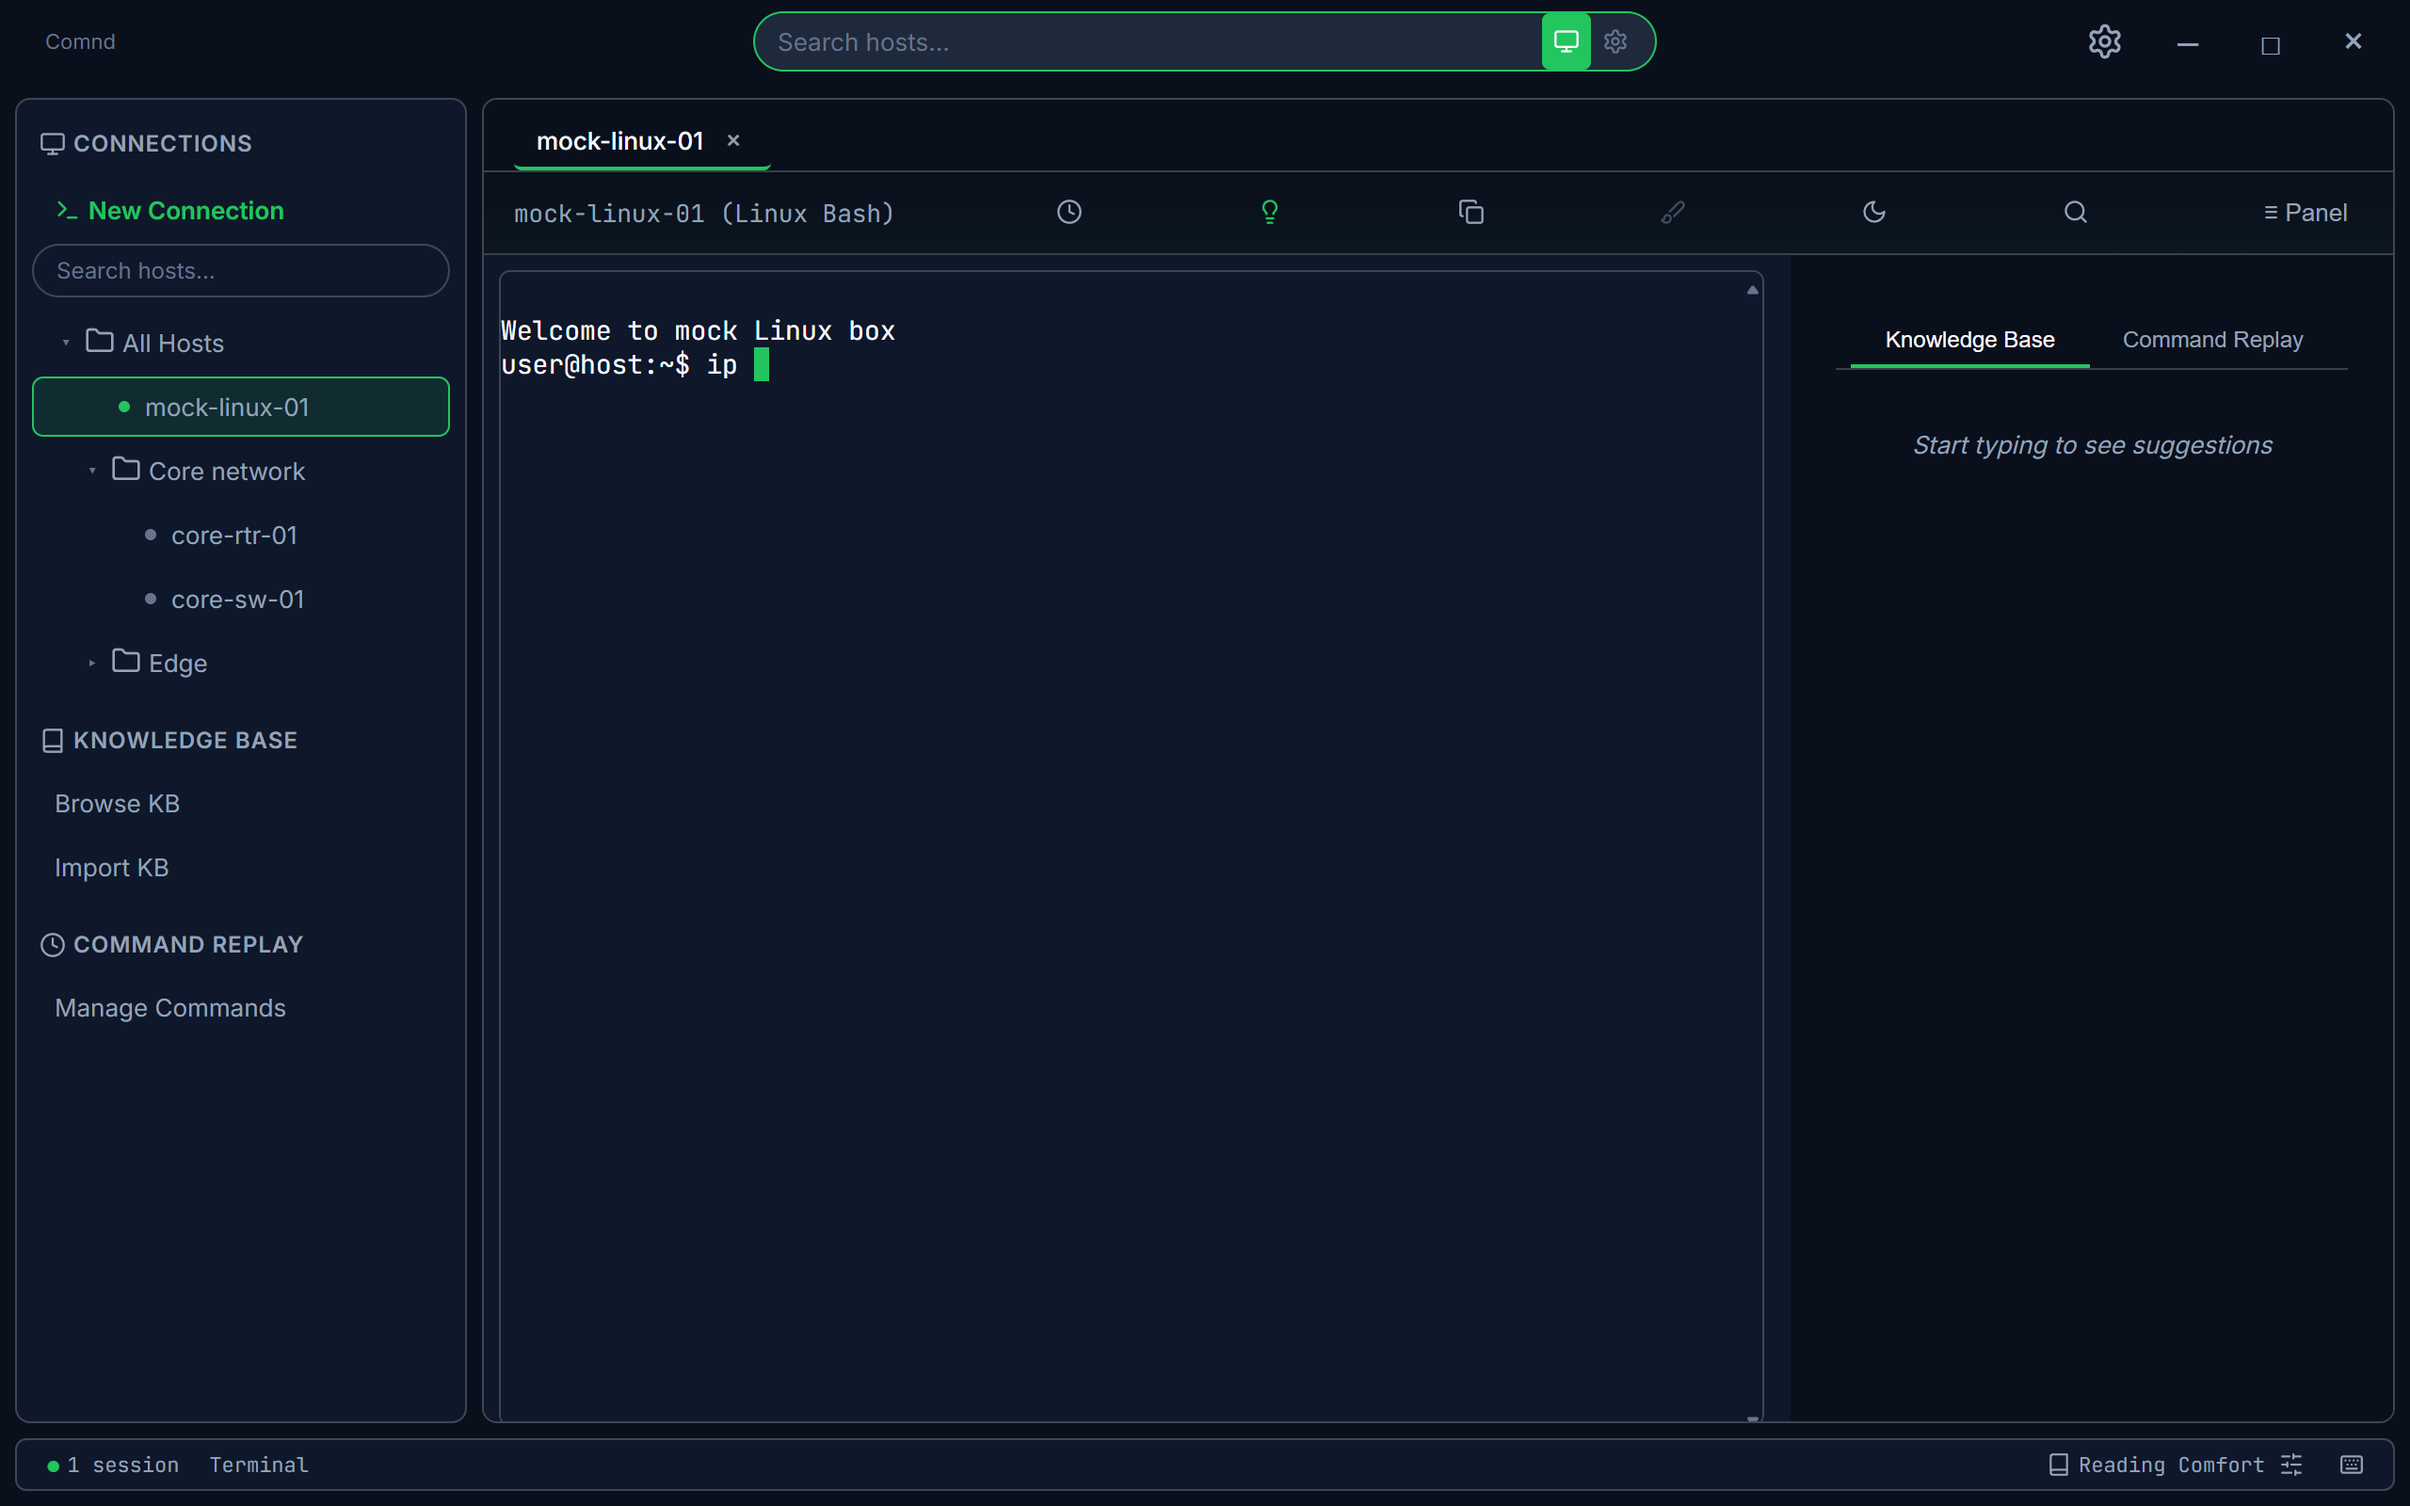
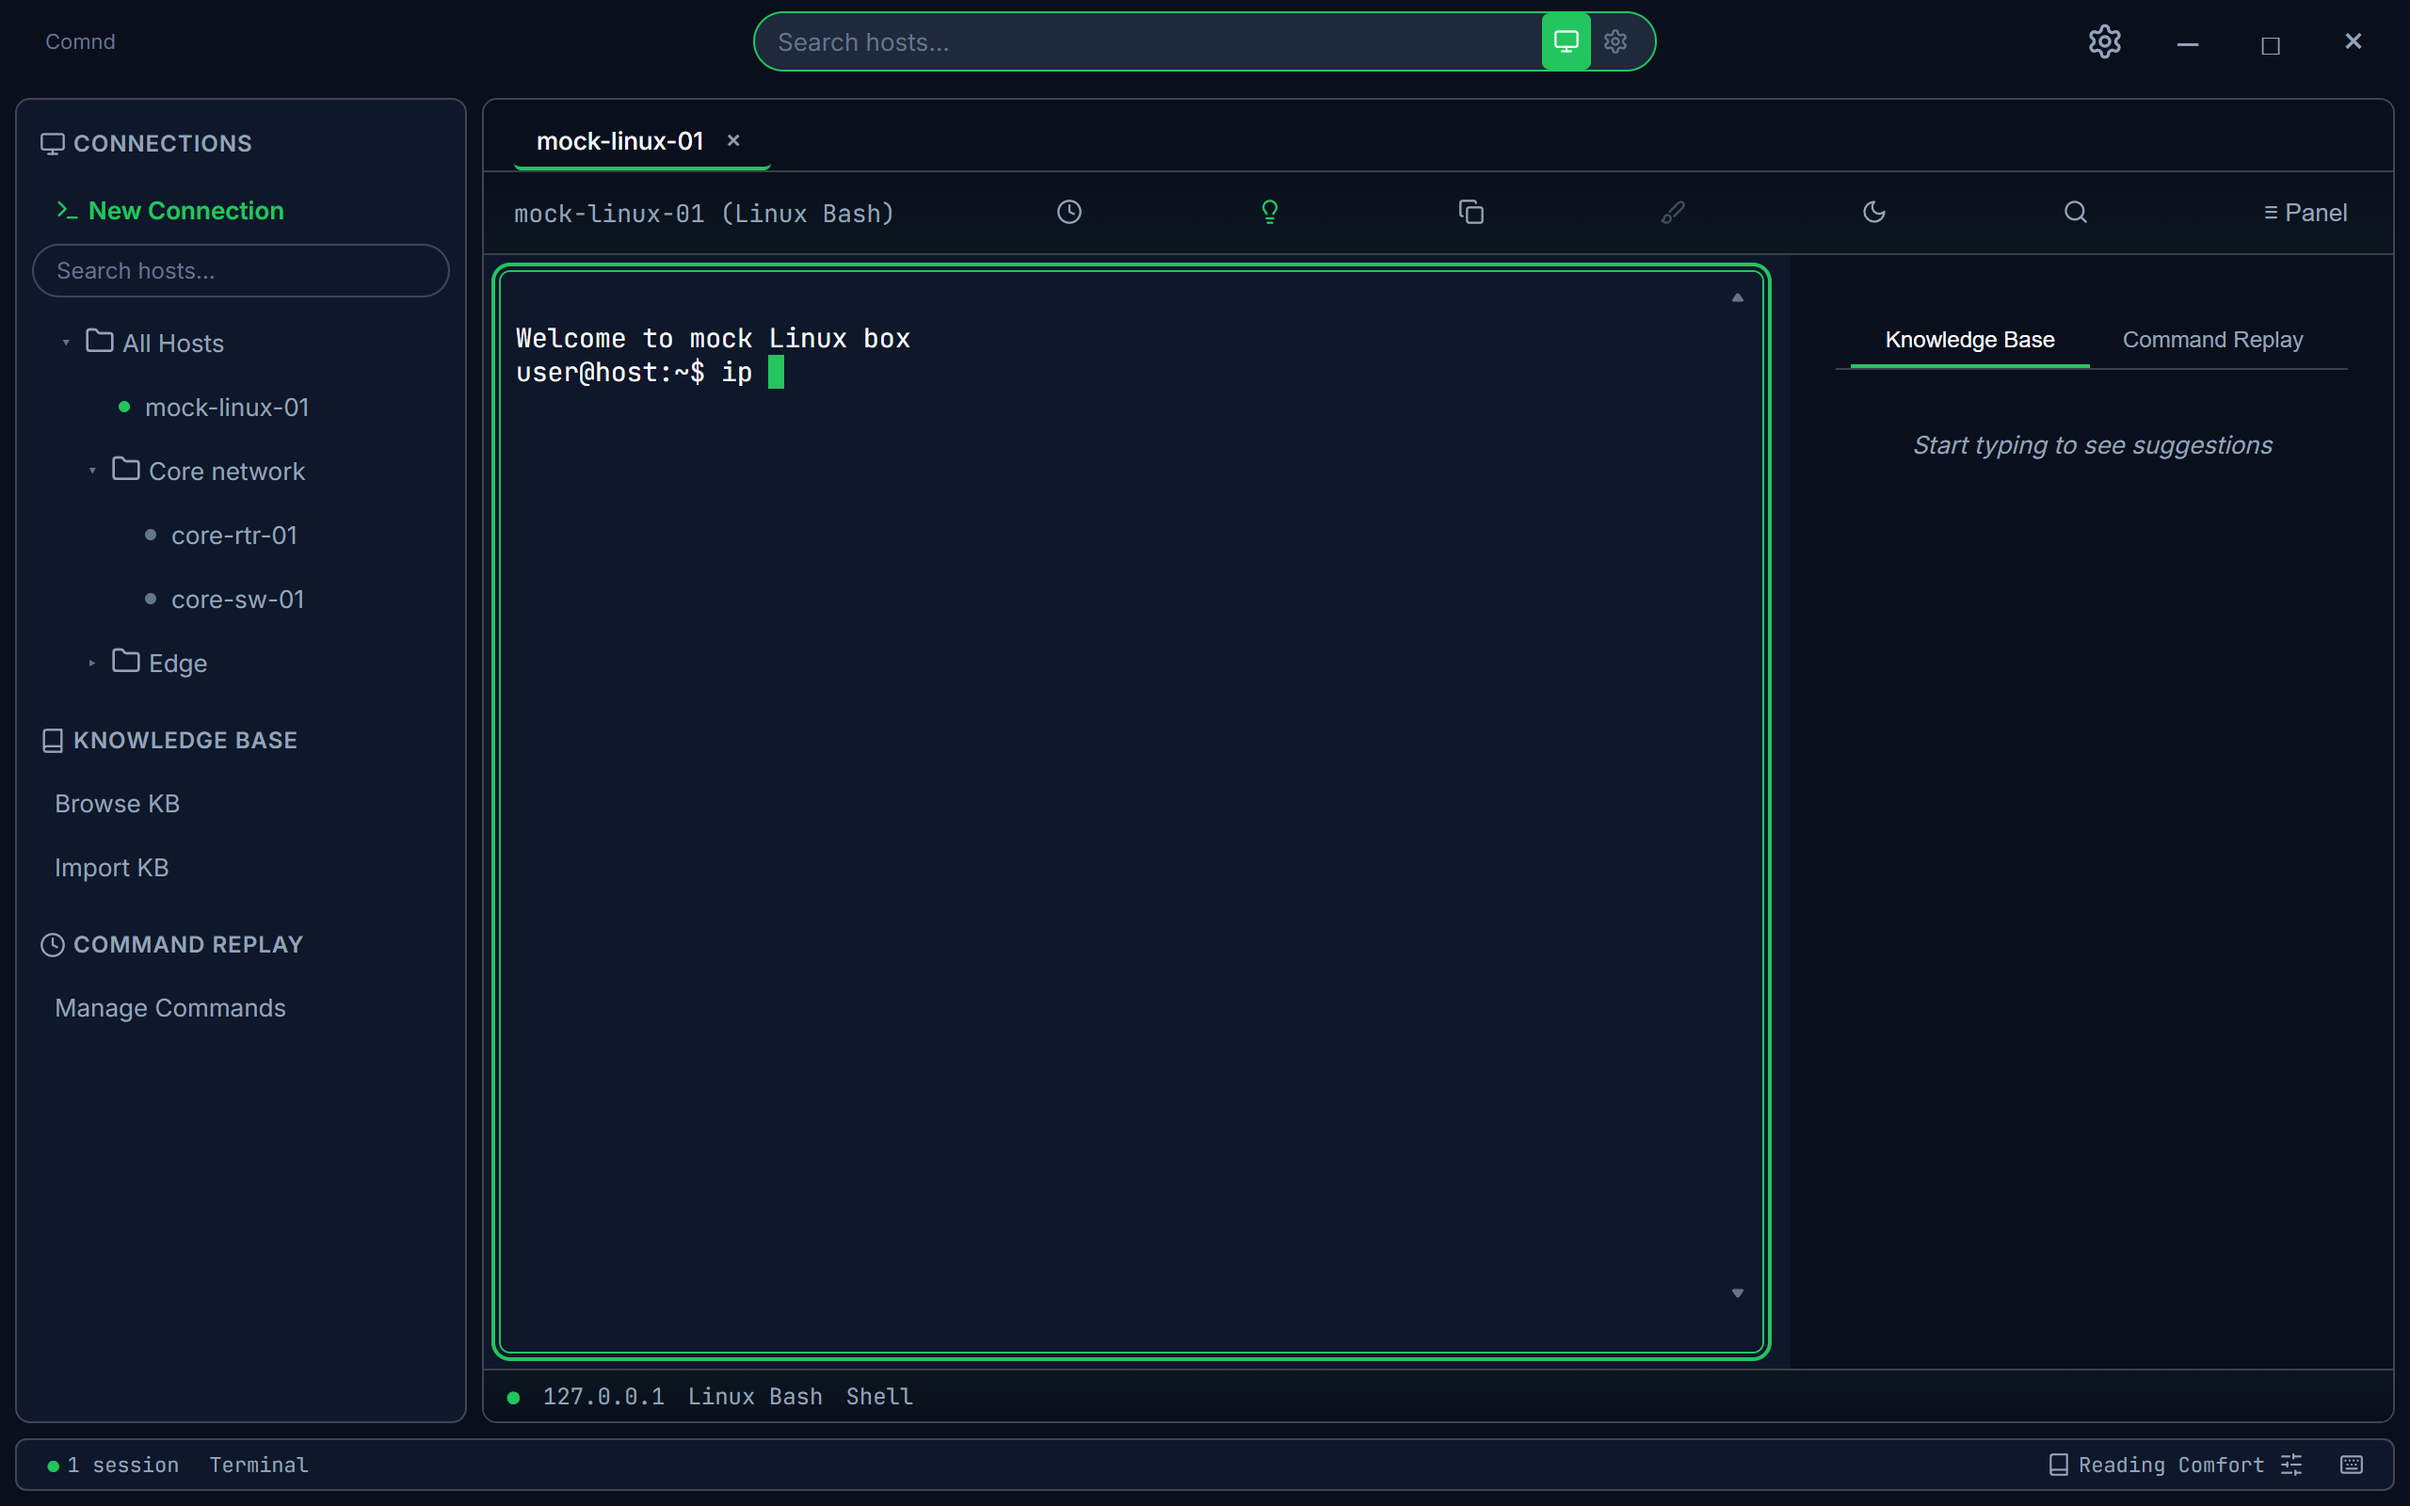
chore(smoke): refresh the Windows visual baseline
The committed screenshot set dated from 2026-11-03 and 25 commits have touched
src/ since, so five of the nine shots no longer matched the app: the shortcuts
dialog picked up the theme badge and token work (#118, #119), the Knowledge Base
and its delete dialog the split-ledger detail pane (#130), the Settings General
pane the version rail (#145), and both terminal shots the pane inset and focus
ring (#163). The other four reproduced byte for byte, which localises the drift
to the screens those changes touched.

Captured at DPR 2, 1280x800, WebView2 157.0.4341.46. Reproducibility was checked
by capturing twice and comparing every SHA-256: identical both times. A plain
--check against the new set then reproduced all nine byte for byte.

readme-terminal-suggestions.png is copied from the new 09 shot, so the README
does not show the pre-inset terminal.

Stacked on #163: shots 08 and 09 capture that branch's CSS, so this lands after
it. Merge it second or the terminal pair goes stale again.

diff --git a/docs/testing/visual-baseline.md b/docs/testing/visual-baseline.md
@@ -29,10 +29,17 @@ Committed set: `test/smoke/visual-baseline/windows/`.
 `manifest.json` sits beside them and records the geometry the set was captured
 at, plus each shot's screen, state, SHA-256 and pixel size.
 
-The committed set was last captured on 2026-11-03 on Windows 11 (WebView2
-156.0.4314.58, DPR 2, 1280×800). Re-capture reproducibility was checked by
+The committed set was last captured on 2026-11-17 on Windows 11 (WebView2
+157.0.4341.46, DPR 2, 1280×800). Re-capture reproducibility was checked by
 capturing five times in a row and comparing every file's SHA-256 against the
 committed set: identical every time.
+
+That capture refreshed five of the nine shots, which had drifted since the
+previous set: the shortcuts dialog (theme badge and token work, #118, #119), the
+Knowledge Base and its delete dialog (split-ledger detail pane, #130), the
+Settings General pane (version rail, #145), and both terminal shots (pane inset
+and focus ring, #163). The other four reproduced byte for byte, so the drift was
+in the screens those changes touched and nowhere else.
 
 ### What is deliberately not covered
 
